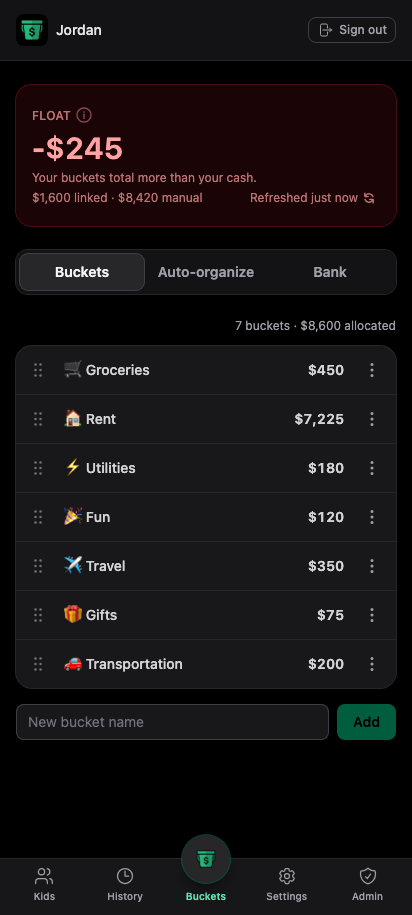
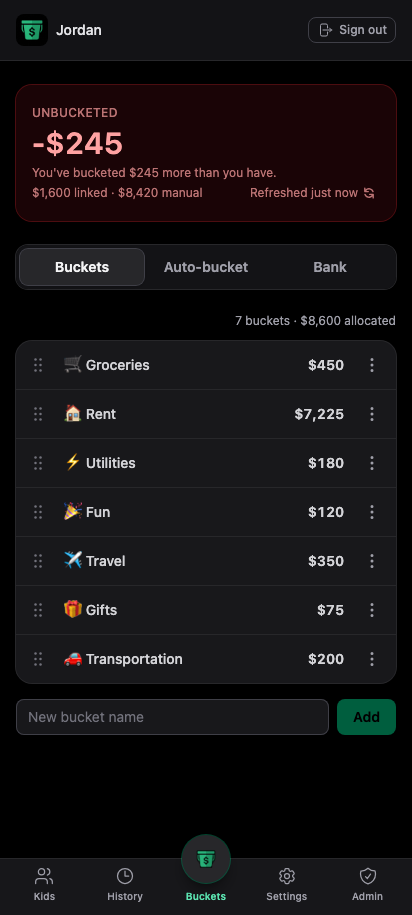
v1.5.31: Refresh PWA screenshots and demo GIF for Unbucketed rename (#243)
The "Float" → "Unbucketed" and "Auto-organize" → "Auto-bucket" renames, plus
the now-dynamic over-bucketed hint, changed the install screenshots and the
demo GIF. Regenerate both.

- Capture spec waited on the stale static FLOAT_NEGATIVE_HINT; switch to
  floatOverbucketedHint() with the known rebalance target (-$245) so it tracks
  the dynamic copy and won't drift on the next rename.
- Screenshots and GIF now show "Unbucketed", the "Auto-bucket" tab, the new
  dynamic "You've bucketed $245 more than you have." hint, and the Kids
  "Synced just now" indicator.

diff --git a/tests/pwa-screenshots/capture.spec.ts b/tests/pwa-screenshots/capture.spec.ts
@@ -3,11 +3,14 @@ import { join } from 'node:path'
 import { expect, test } from '@playwright/test'
 import {
   NAV_BUCKETS_LABEL,
-  FLOAT_NEGATIVE_HINT,
+  floatOverbucketedHint,
   KIDS_VIRTUAL_SECTION_TITLE,
   KIDS_LINKED_SECTION_TITLE,
 } from '../../src/lib/brand'
-import { applyPwaScreenshotRebalance } from '../../scripts/seed/pwaScreenshotRebalance'
+import {
+  applyPwaScreenshotRebalance,
+  PWA_SCREENSHOT_REBALANCE_TARGET_FLOAT,
+} from '../../scripts/seed/pwaScreenshotRebalance'
 import { seedAdminEmail } from '../../scripts/seed/constants'
 import {
   PWA_SCREENSHOT_BUCKETS,
@@ -68,6 +71,7 @@ test('capture PWA install screenshots', async ({ page }) => {
   await page.goto('/')
   await waitForNavSettled(page, NAV_BUCKETS_LABEL)
   await expect(bucketsTab).toHaveAttribute('aria-selected', 'true')
-  await page.getByText(FLOAT_NEGATIVE_HINT).waitFor()
+  const overAmountLabel = `$${Math.abs(PWA_SCREENSHOT_REBALANCE_TARGET_FLOAT).toLocaleString('en-US')}`
+  await page.getByText(floatOverbucketedHint(overAmountLabel)).waitFor()
   await page.screenshot({ path: join(outputDir, 'buckets-rebalance.png') })
 })
